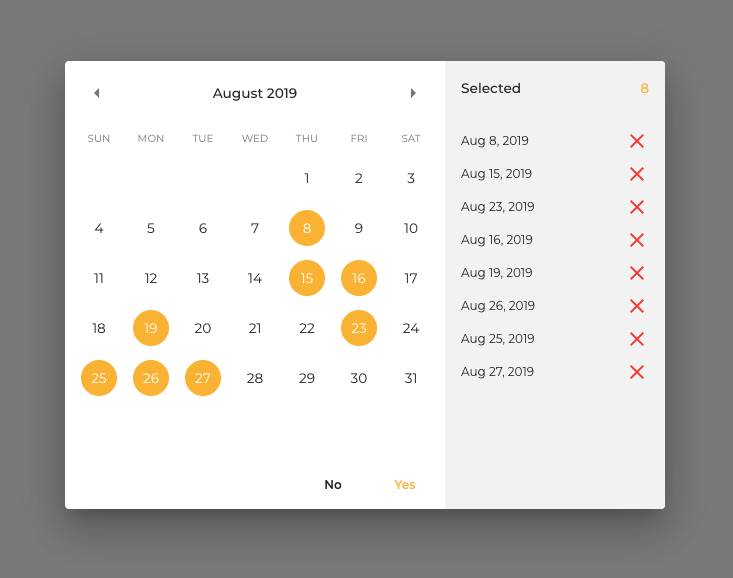
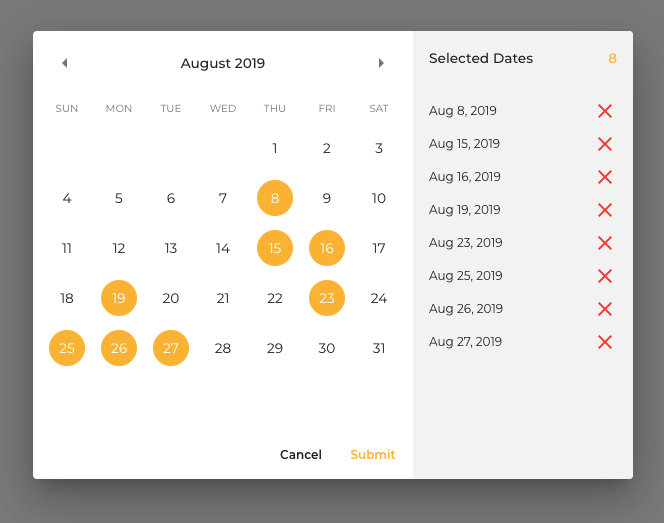
Make a better screenshot of the date picker

diff --git a/example/src/Demo.js b/example/src/Demo.js
@@ -41,9 +41,6 @@ const Demo = props => {
         selectedDates={dates}
         onCancel={onCancel}
         onSubmit={onSubmit}
-        cancelButtonText='No'
-        submitButtonText='Yes'
-        selectedDatesTitle='Selected'
       />
       <Typography color='textSecondary'>
         <code>{JSON.stringify(dates)}</code>

diff --git a/example/src/ThemeProvider.js b/example/src/ThemeProvider.js
@@ -286,7 +286,7 @@ export const ThemeContext = createContext({})
 // }
 
 function ThemeProvider ({ children }) {
-  const [theme, setTheme] = useState(createTheme(false))
+  const [theme, setTheme] = useState(createTheme(true))
 
   console.log('theme', theme)
 
